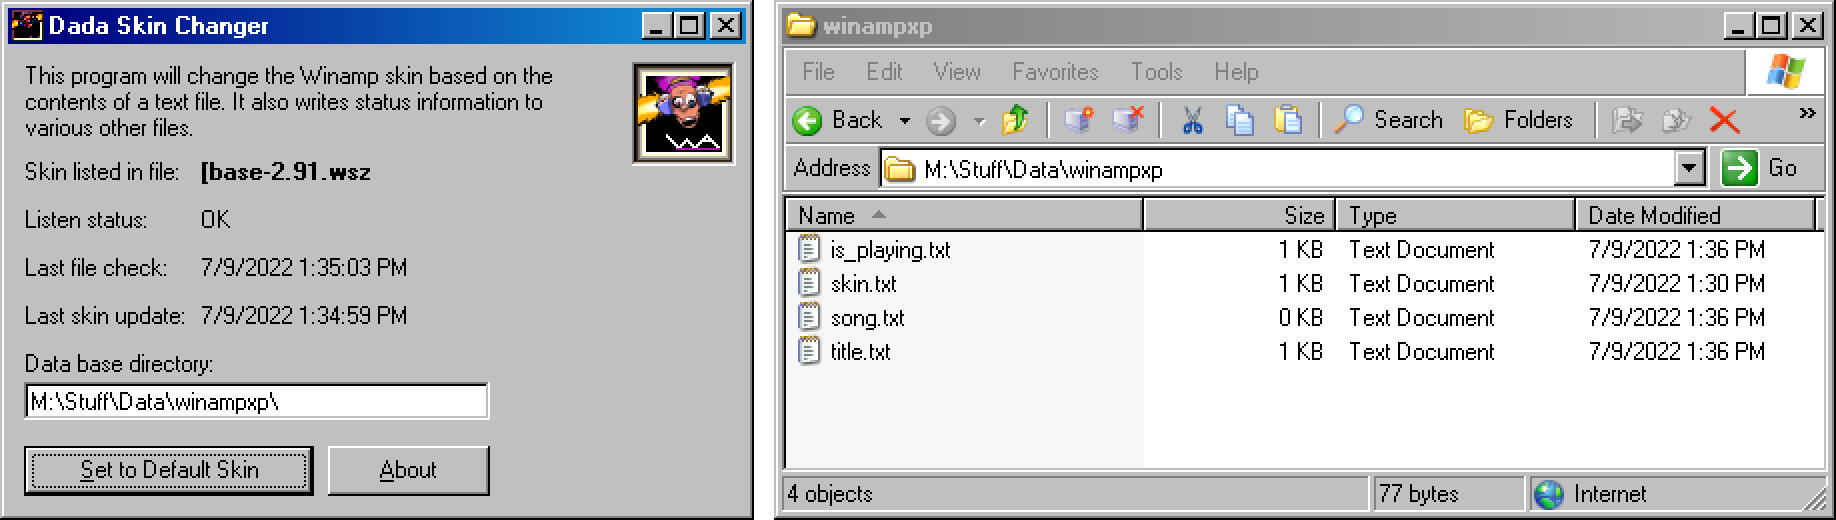
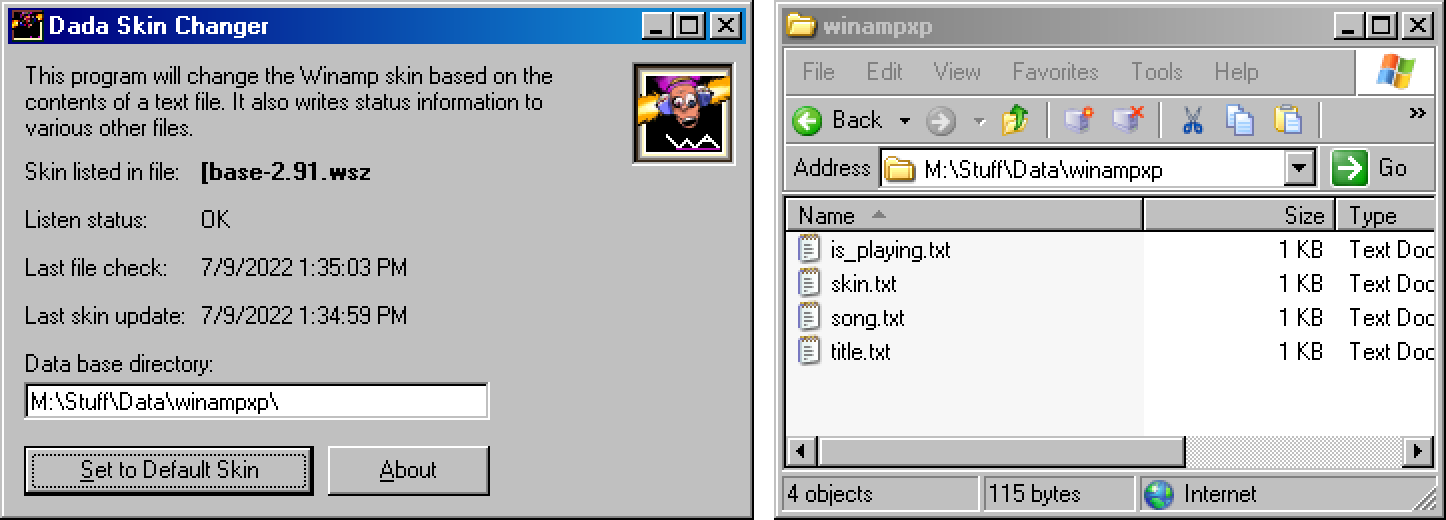
Make the image smaller so it fits better on Github

diff --git a/readme.md b/readme.md
@@ -4,7 +4,7 @@ A simple Visual Basic 6 script that reads from a file and then switches Winamp's
 
 It also stores a bunch of other information in various other files.
 
-<img src="./example.png" alt="Example image" width="918" height="260">
+<img src="./example.png" alt="Example image" width="723" height="260">
 
 This script requires [gen_com.dll](https://github.com/winamp-libre/winamp-libre-archive/tree/master/plugins/gen/gen_com), which is used to communicate with Winamp.
 
